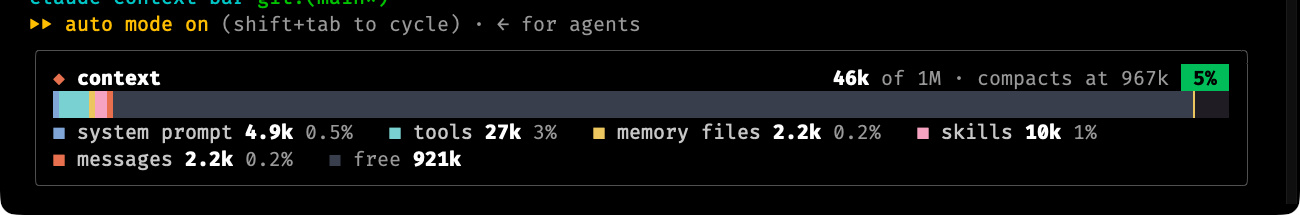
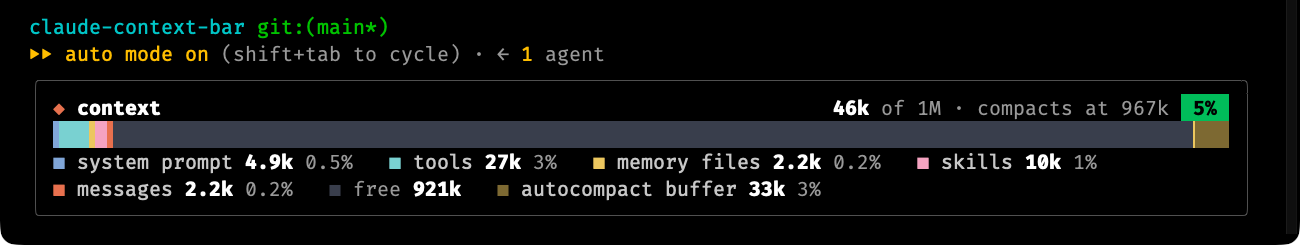
Show the autocompact buffer in the legend; smoother, longer animation
The buffer gets a legend entry and a colour that shows on a black
terminal. The bar now moves in 36 steps 20 ms apart (720 ms) instead of
12 steps 40 ms apart (480 ms).

The demo GIF is a 50 fps screen recording of a real session.

Claude-Session: https://claude.ai/code/session_01BW9vfW4ZaayqsSKLen35YW

diff --git a/hooks/register.test.ts b/hooks/register.test.ts
@@ -164,9 +164,9 @@ test('the box draws under the prompt, above the hint line, and /context-bar togg
 
     // System prompt, Messages, free space, then the mark and the buffer.
     const colors = runs.filter(r => r.children.join('').includes('█')).map(r => r.props.color)
-    expect(colors).toEqual(['#88a5d4', '#d97757', '#3a3e4b', '#1f1c23'])
+    expect(colors).toEqual(['#88a5d4', '#d97757', '#3a3e4b', '#7a6a3a'])
     const mark = runs.find(r => r.children.join('') === '▏')
-    expect(mark?.props).toMatchObject({ color: '#e6c86f', backgroundColor: '#1f1c23' })
+    expect(mark?.props).toMatchObject({ color: '#e6c86f', backgroundColor: '#7a6a3a' })
     // 33k of 200k is 9 of 56 cells: the mark and eight more.
     expect(runs[runs.length - 1]?.children.join('')).toBe('█'.repeat(8))
 
@@ -177,6 +177,7 @@ test('the box draws under the prompt, above the hint line, and /context-bar togg
       '■ system prompt 4k 2%',
       '■ messages 56k 28%',
       '■ free 107k',
+      '■ autocompact buffer 33k 17%',
     ])
     expect(await ui.find({ type: 'Text', text: /deferred/ })).toBeUndefined()
     expect(await ui.find({ type: 'Text', text: '? for shortcuts' })).toBeDefined()
@@ -221,14 +222,20 @@ test('the bar grows from empty when shown and settles on the real values', async
   expect(start.hasLegend).toBe(true)
 
   // Part of the way there after a few frames.
-  await clock.advance(40 * 3)
+  await clock.advance(20 * 6)
   const mid = await header()
   expect(mid.filled).toBeGreaterThan(0)
   expect(mid.used).not.toBe('0')
   expect(mid.used).not.toBe('60k')
 
-  // Settled once the twelve frames have run, and still there later.
-  await clock.advance(40 * 9)
+  // Still moving at the old half-second mark: the move takes 36 frames of 20 ms.
+  await clock.advance(20 * 19)
+  const late = await header()
+  expect(late.used).not.toBe('60k')
+  expect(late.filled).toBeGreaterThanOrEqual(mid.filled)
+
+  // Settled once all the frames have run, and still there later.
+  await clock.advance(20 * 11)
   const end = await header()
   expect(end.used).toBe('60k')
   expect(end.filled).toBeGreaterThanOrEqual(mid.filled)

diff --git a/hooks/register.tsx b/hooks/register.tsx
@@ -12,8 +12,8 @@ const CHROME = 4
 // Cells between two legend entries.
 const GAP = 3
 // One move of the bar: STEPS frames, FRAME_MS apart.
-const FRAME_MS = 40
-const STEPS = 12
+const FRAME_MS = 20
+const STEPS = 36
 
 // Category colours, by the engine's name for the category; one it gives no
 // entry here keeps the engine's own colour.
@@ -28,8 +28,8 @@ const PALETTE: Record<string, string> = {
 }
 const LABEL: Record<string, string> = { 'system tools': 'tools', 'custom agents': 'agents' }
 const TRACK = {
-  dark: { free: '#3a3e4b', buffer: '#1f1c23' },
-  light: { free: '#d5d8e0', buffer: '#b4b7c2' },
+  dark: { free: '#3a3e4b', buffer: '#7a6a3a' },
+  light: { free: '#d5d8e0', buffer: '#c9b98a' },
 } as const
 const MARK = '#e6c86f'
 
@@ -187,6 +187,16 @@ export const register: Register = on => {
         share: ` ${percent(c.tokens, shot.max)}`,
       })),
       { color: track.free, name: 'free', tokens: compact(shot.free), share: '' },
+      ...(shot.buffer > 0
+        ? [
+            {
+              color: track.buffer,
+              name: 'autocompact buffer',
+              tokens: compact(shot.buffer),
+              share: ` ${percent(shot.buffer, shot.max)}`,
+            },
+          ]
+        : []),
     ]
     // A short terminal clips what is drawn under the prompt from the bottom, so
     // the drawing gives up its legend, then its box, before that happens.
@@ -270,7 +280,7 @@ export const register: Register = on => {
               {entries.map(entry => (
                 <Box>
                   <Text color={entry.color}>■</Text>
-                  <Text dimColor={entry.share === ''}> {entry.name} </Text>
+                  <Text dimColor={entry.name === 'free'}> {entry.name} </Text>
                   <Text bold>{entry.tokens}</Text>
                   <Text dimColor>{entry.share}</Text>
                 </Box>

diff --git a/notes/2026-10-06-session.md b/notes/2026-10-06-session.md
@@ -47,3 +47,13 @@ Rows shown under the prompt: 17 rows -> 4, 20 -> 6, 22 -> 7, 24 -> 8+. Fits `flo
 - 10 tests pass; `claude plugin validate` and `tsc` clean.
 - Real captures in iTerm2 at 17, 20, 24 and 29 rows; animation captured frame by frame (28k -> 46k -> 48k in order). `assets/demo.gif` is built from those captures with their real timings (about 6 captures per second, so it shows 3 of the 12 steps).
 - Light theme colours are untested on a real light terminal.
+
+---
+
+# Third task (same day): buffer in legend, faster frames, full-rate GIF (v0.3.0)
+
+- Autocompact buffer added to the legend; its colour changed from near-black `#1f1c23` (invisible on a black terminal) to `#7a6a3a` (light theme `#c9b98a`).
+- Animation: `FRAME_MS` 40 -> 20, `STEPS` 12 -> 36 (720 ms, was 480 ms).
+- `assets/demo.gif` is now a real 60 fps screen recording converted to 50 fps:
+  `ffmpeg -f avfoundation -pixel_format bgr0 -framerate 60 -capture_cursor 0 -i "2:none" -t 6.5 -vf crop=W:H:X:Y -c:v libx264rgb -crf 0 rec.mkv`, then `fps=50` + palettegen/paletteuse. Device 2 is "Capture screen 0" (the 3840x1600 main display, 1x). The mouse pointer is recorded regardless of `-capture_cursor 0`, so the window was moved away from it.
+- Measured in that recording: 16 distinct screen updates over about 530 ms (roughly every second 60 fps frame). The last steps of the ease-out change nothing visible once values round, and the terminal does not show every 20 ms step.

diff --git a/README.md b/README.md
@@ -6,11 +6,13 @@ A [Claude Code](https://claude.com/claude-code) mod that draws the context windo
 
 - **Header:** tokens used, the window's size, where autocompaction starts, and the share used. The share's badge is green, then yellow from 60% of the way to compaction, then red from 85%.
 - **Bar:** one coloured run per `/context` category, then the free space, a mark where autocompaction starts, and the buffer held back beyond it. Boundaries fall on half cells.
-- **Legend:** each category with its token count and share of the window, then the free space.
+- **Legend:** each category with its token count and share of the window, then the free space and the autocompact buffer.
 
-The bar grows from empty when it appears and slides to its new values when the context changes; each move takes about half a second.
+The bar grows from empty when it appears and slides to its new values when the context changes; each move takes about 0.7 seconds, in steps 20 ms apart.
 
 ![The bar growing in after /context-bar](assets/demo.gif)
+
+The GIF is a 50 frames-per-second screen recording of a real session.
 
 Close-up:
 
